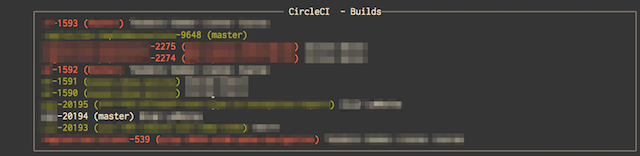
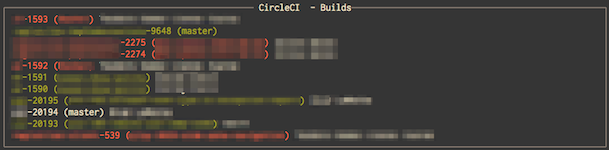
Fix the screenshot in the CircleCI documentation

diff --git a/docs/posts/modules/circleci/index.html b/docs/posts/modules/circleci/index.html
@@ -120,7 +120,7 @@
 
 <p>Displays build information for your CircleCI account.</p>
 
-<p><img src="/imgs/modules/circleci.png" width="640" height="156" alt="circleci screenshot" /></p>
+<p><img src="/imgs/modules/circleci.png" width="609" height="150" alt="circleci screenshot" /></p>
 
 <h2 id="source-code">Source Code</h2>
 <div class="highlight"><pre class="chroma"><code class="language-bash" data-lang="bash">wtf/circleci/</code></pre></div>

diff --git a/docs/posts/modules/ipapi/index.html b/docs/posts/modules/ipapi/index.html
@@ -116,6 +116,8 @@
   
   
 
+<p>Added in <code>v0.0.7</code>.</p>
+
 <p>Displays your current IP address information, from <a href="http://ip-api.com">IP-APIcom</a>.</p>
 
 <p><strong>Note:</strong> IP-API.com has a free-plan rate limit of 120 requests per

diff --git a/_site/content/posts/modules/circleci.md b/_site/content/posts/modules/circleci.md
@@ -8,7 +8,7 @@ Added in `v0.0.7`.
 
 Displays build information for your CircleCI account.
 
-<img src="/imgs/modules/circleci.png" width="640" height="156" alt="circleci screenshot" />
+<img src="/imgs/modules/circleci.png" width="609" height="150" alt="circleci screenshot" />
 
 ## Source Code
 

diff --git a/_site/content/posts/modules/ipapi.md b/_site/content/posts/modules/ipapi.md
@@ -4,6 +4,8 @@ date: 2018-06-10T19:41:52-04:00
 draft: false
 ---
 
+Added in `v0.0.7`.
+
 Displays your current IP address information, from [IP-APIcom](http://ip-api.com).
 
 **Note:** IP-API.com has a free-plan rate limit of 120 requests per
